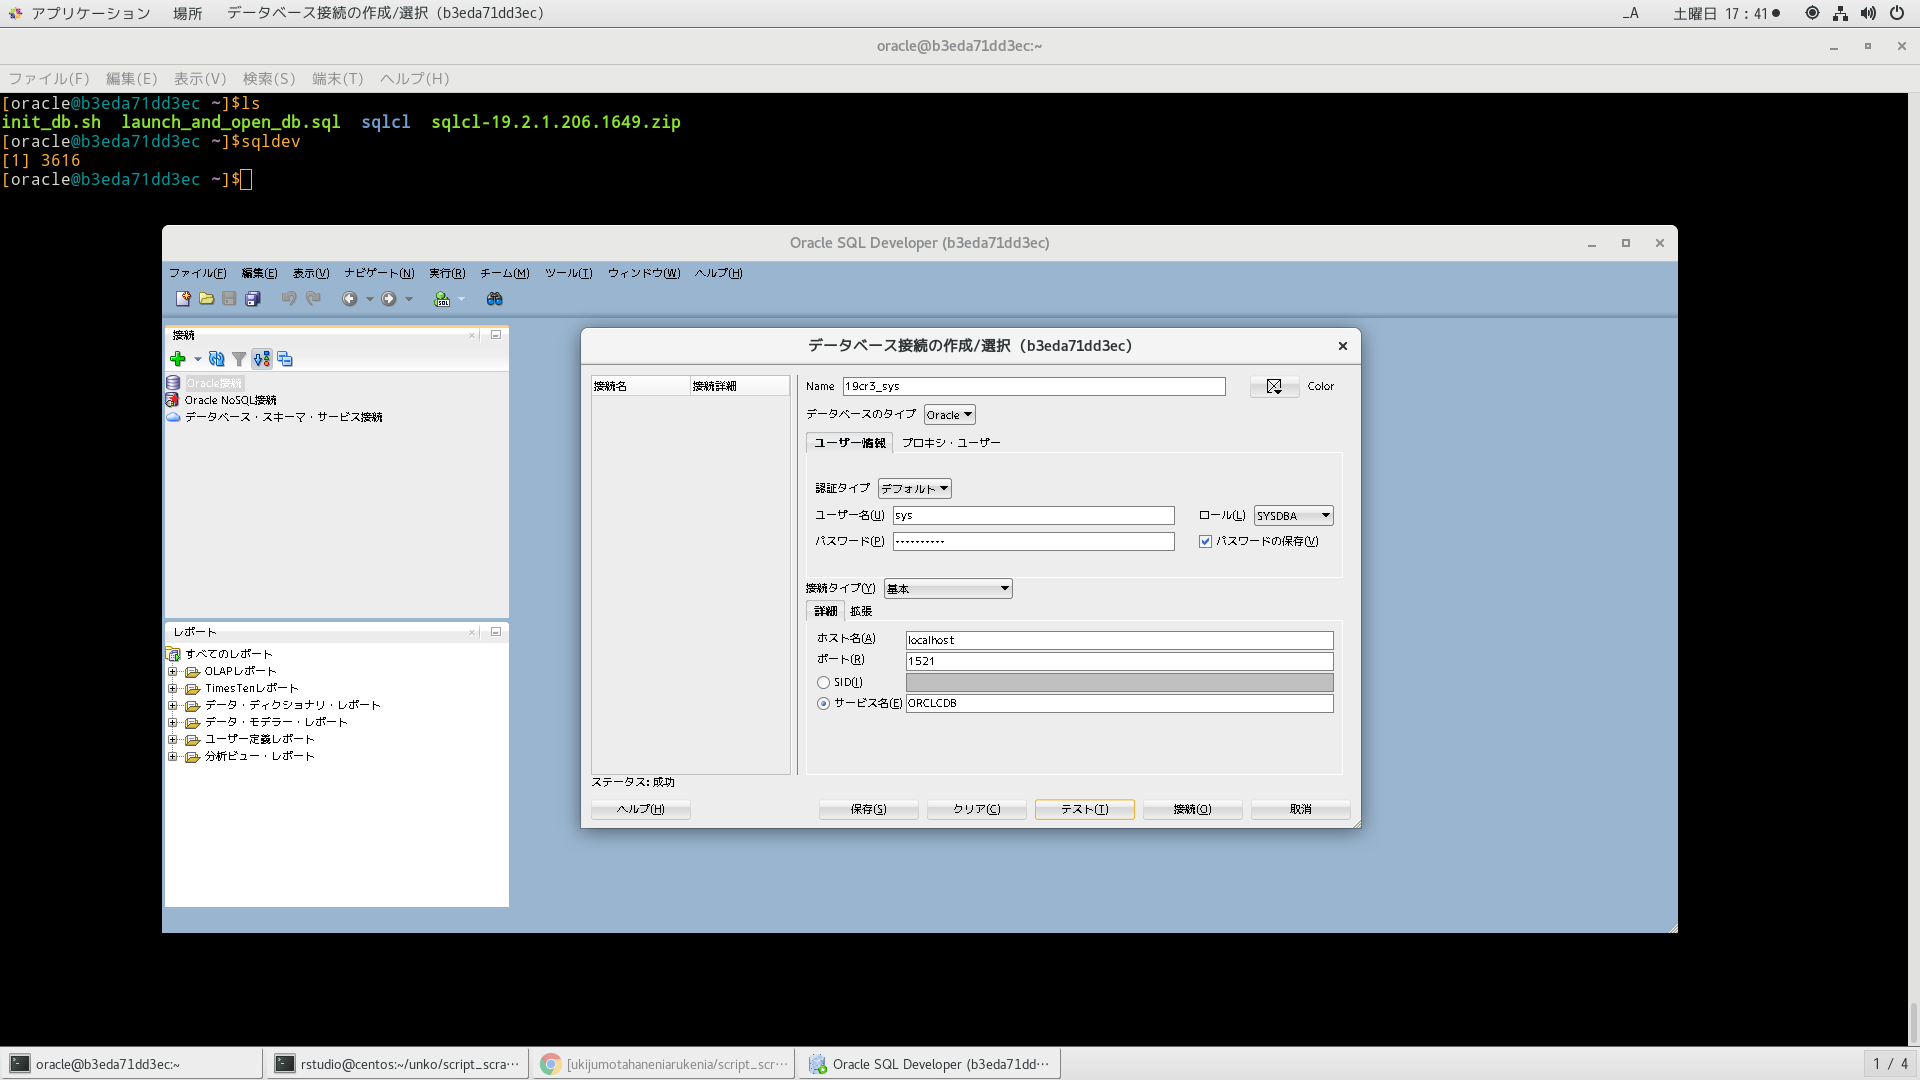
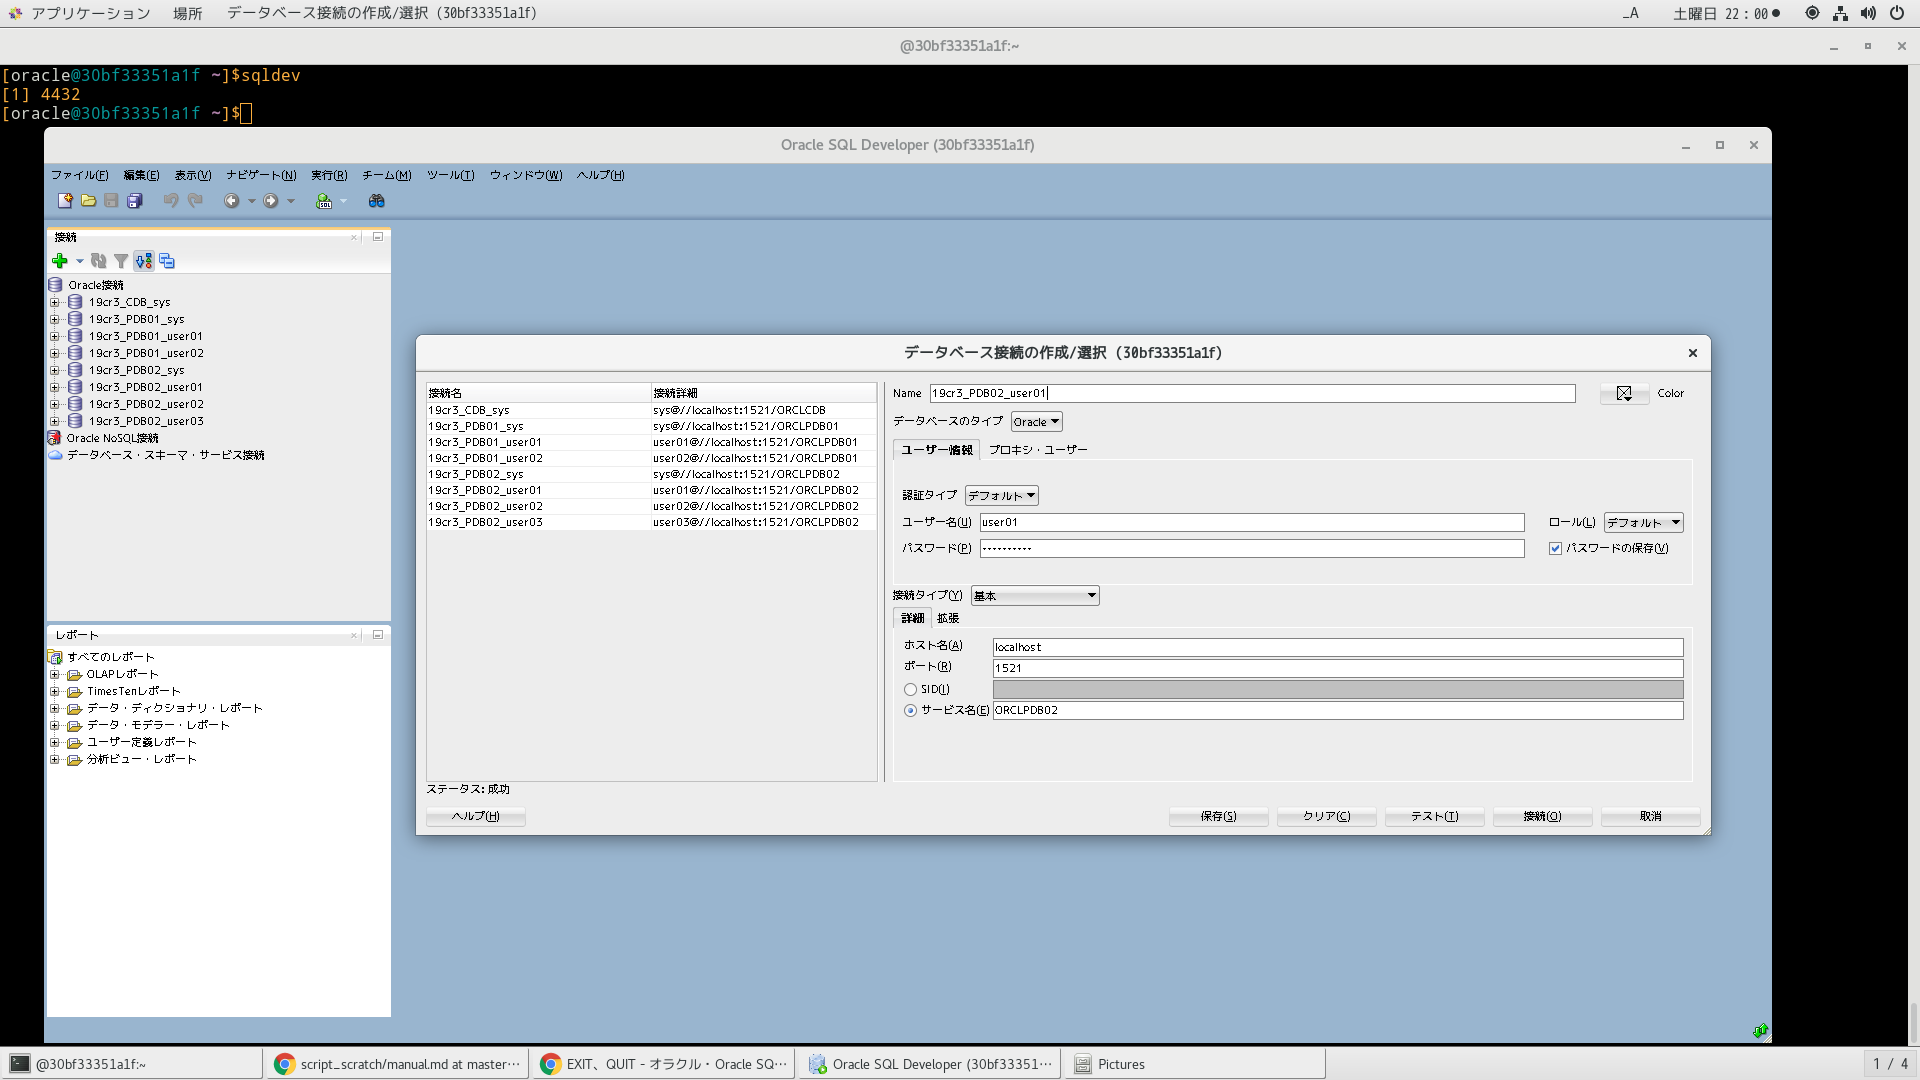
環境構築

diff --git a/oracle/manual.md b/oracle/manual.md
@@ -383,84 +383,303 @@ sys	0m0.008s
 ```
 
 # sqlplusから接続
+これでもいいし
+```
+sqlplus sys/ORACLE_PWD@ORCLCDB as sysdba
+sqlplus sys/ORACLE_PWD@ORCLPDB01 as sysdba
+sqlplus sys/ORACLE_PWD@ORCLPDB02 as sysdba
+sqlplus user01/ORACLE_PWD@ORCLPDB01
+sqlplus user02/ORACLE_PWD@ORCLPDB01
+sqlplus user01/ORACLE_PWD@ORCLPDB02
+sqlplus user02/ORACLE_PWD@ORCLPDB02
+sqlplus user03/ORACLE_PWD@ORCLPDB02
+```
+これでもいい
 ```
 sqlplus sys/ORACLE_PWD@localhost:1521/ORCLCDB as sysdba
 sqlplus sys/ORACLE_PWD@localhost:1521/ORCLPDB01 as sysdba
 sqlplus sys/ORACLE_PWD@localhost:1521/ORCLPDB02 as sysdba
-sqlplus pdb01/oracle_pwd@localhost:1521/ORCLPDB01
-sqlplus pdb02/oracle_pwd@localhost:1521/ORCLPDB02
+sqlplus user01/ORACLE_PWD@localhost:1521/ORCLPDB01
+sqlplus user02/ORACLE_PWD@localhost:1521/ORCLPDB01
+sqlplus user01/ORACLE_PWD@localhost:1521/ORCLPDB02
+sqlplus user02/ORACLE_PWD@localhost:1521/ORCLPDB02
+sqlplus user03/ORACLE_PWD@localhost:1521/ORCLPDB02
 ```
-
-# sqldeveloperから接続
-![](./1.png)
-![](./2.png)
-![](./3.png)
-![](./4.png)
-![](./5.png)
-![](./6.png)
-
-# sqlclでも接続確認
-?クエリパラメータはなぜか標準出力に吐かれない。
-標準入力で与える場合は標準出力に吐かれる。
-SYSユーザーの「as sysdba付与して接続」がアンドキュメント。たぶん。
+実行例
 ```
-[root@be807f28f5bd /]$sql --version
-GNU sql 20190822
-Copyright (C) 2009,2010,2011,2012,2013,2014,2015,2016,2017
-Ole Tange and Free Software Foundation, Inc.
-License GPLv3+: GNU GPL version 3 or later <http://gnu.org/licenses/gpl.html>
-This is free software: you are free to change and redistribute it.
-GNU sql comes with no warranty.
+[oracle@30bf33351a1f ~]$sqlplus sys/ORACLE_PWD@localhost:1521/ORCLCDB as sysdba
 
-Web site: http://www.gnu.org/software/sql
-
-When using GNU sql for a publication please cite:
-
-O. Tange (2011): GNU SQL - A Command Line Tool for Accessing Different
-Databases Using DBURLs, ;login: The USENIX Magazine, April 2011:29-32.
-```
-## SYSユーザー以外でPDB接続
-```
-[oracle@be807f28f5bd ~]$man sql | grep oracle
-        sql:oracle://scott:tiger@ora.example.com/xe
-       Currently supported vendors: MySQL (mysql), MySQL with SSL (mysqls, mysqlssl), Oracle (oracle, ora), PostgreSQL (postgresql, pg, pgsql, postgres), PostgreSQL with SSL
-       sql sql:oracle://scott:tiger@ora.example.com/xe
-[oracle@be807f28f5bd ~]$man sql | grep ?
-       dburl    A DBURL has the following syntax: [sql:]vendor:// [[user][:password]@][host][:port]/[database][?sqlquery]
-       A DBURL has the following syntax: [sql:]vendor:// [[user][:password]@][host][:port]/[database][?sqlquery]
-        sql:sqlite2:////tmp/db.sqlite?SELECT * FROM foo;
-        sqlite3:///../db.sqlite3?SELECT%20*%20FROM%20foo;
-        :query  sqlite:////tmp/db.sqlite?SELECT * FROM foo;
-[oracle@be807f28f5bd ~]$sql sql:oracle://pdb12:oracle_pwd@localhost/ORCLPDB12
-
-SQL*Plus: Release 19.0.0.0.0 - Production on Wed Sep 11 02:20:39 2019
+SQL*Plus: Release 19.0.0.0.0 - Production on 土 9月 14 21:47:03 2019
 Version 19.3.0.0.0
 
 Copyright (c) 1982, 2019, Oracle.  All rights reserved.
 
-??????????: ?  9?   11 2019 02:19:36 +09:00
 
 
 Oracle Database 19c Enterprise Edition Release 19.0.0.0.0 - Production
 Version 19.3.0.0.0
-?????????
-SQL> select banner_full from v$version;
+に接続されました。
+SYS@localhost:1521/ORCLCDB> show con_name
 
-BANNER_FULL
-----------------------------------------------------------------------------------------------------------------------------------------------------------------
+CON_NAME
+------------------------------
+CDB$ROOT
+SYS@localhost:1521/ORCLCDB> show pdbs
+
+       CON_ID CON_NAME                       OPEN MODE  RESTRICTED
+------------- ------------------------------ ---------- ----------
+            2 PDB$SEED                       READ ONLY  NO
+            3 ORCLPDB01                      READ WRITE NO
+            4 ORCLPDB02                      READ WRITE NO
+SYS@localhost:1521/ORCLCDB> Oracle Database 19c Enterprise Edition Release 19.0.0.0.0 - Production
+Version 19.3.0.0.0との接続が切断されました。
+[oracle@30bf33351a1f ~]$sqlplus sys/ORACLE_PWD@localhost:1521/ORCLPDB01 as sysdba
+
+SQL*Plus: Release 19.0.0.0.0 - Production on 土 9月 14 21:47:23 2019
+Version 19.3.0.0.0
+
+Copyright (c) 1982, 2019, Oracle.  All rights reserved.
+
+
+
 Oracle Database 19c Enterprise Edition Release 19.0.0.0.0 - Production
+Version 19.3.0.0.0
+に接続されました。
+SYS@localhost:1521/ORCLPDB01> show con_name
 
-SQL> Oracle Database 19c Enterprise Edition Release 19.0.0.0.0 - Production
-Version 19.3.0.0.0?????????????
-[oracle@be807f28f5bd ~]$sql sql:oracle://pdb01:oracle_pwd@localhost/ORCLPDB01?select banner_full from v$version;
+CON_NAME
+------------------------------
+ORCLPDB01
+SYS@localhost:1521/ORCLPDB01> Oracle Database 19c Enterprise Edition Release 19.0.0.0.0 - Production
+Version 19.3.0.0.0との接続が切断されました。
+[oracle@30bf33351a1f ~]$sqlplus sys/ORACLE_PWD@localhost:1521/ORCLPDB02 as sysdba
 
-[oracle@be807f28f5bd /]$echo "select banner_full from v\$version;" | sql sql:oracle://pdb01:oracle_pwd@localhost/ORCLPDB01
+SQL*Plus: Release 19.0.0.0.0 - Production on 土 9月 14 21:47:44 2019
+Version 19.3.0.0.0
 
-BANNER_FULL
-----------------------------------------------------------------------------------------------------------------------------------------------------------------
+Copyright (c) 1982, 2019, Oracle.  All rights reserved.
+
+
+
 Oracle Database 19c Enterprise Edition Release 19.0.0.0.0 - Production
+Version 19.3.0.0.0
+に接続されました。
+SYS@localhost:1521/ORCLPDB02> show con_name
+
+CON_NAME
+------------------------------
+ORCLPDB02
+SYS@localhost:1521/ORCLPDB02> Oracle Database 19c Enterprise Edition Release 19.0.0.0.0 - Production
+Version 19.3.0.0.0との接続が切断されました。
+[oracle@30bf33351a1f ~]$sqlplus user01/ORACLE_PWD@localhost:1521/ORCLPDB01
+
+SQL*Plus: Release 19.0.0.0.0 - Production on 土 9月 14 21:50:09 2019
+Version 19.3.0.0.0
+
+Copyright (c) 1982, 2019, Oracle.  All rights reserved.
 
 
+
+Oracle Database 19c Enterprise Edition Release 19.0.0.0.0 - Production
+Version 19.3.0.0.0
+に接続されました。
+USER01@localhost:1521/ORCLPDB01> show con_name
+
+CON_NAME
+------------------------------
+ORCLPDB01
+USER01@localhost:1521/ORCLPDB01> Oracle Database 19c Enterprise Edition Release 19.0.0.0.0 - Production
+Version 19.3.0.0.0との接続が切断されました。
+[oracle@30bf33351a1f ~]$sqlplus user02/ORACLE_PWD@localhost:1521/ORCLPDB01
+
+SQL*Plus: Release 19.0.0.0.0 - Production on 土 9月 14 21:50:34 2019
+Version 19.3.0.0.0
+
+Copyright (c) 1982, 2019, Oracle.  All rights reserved.
+
+
+
+Oracle Database 19c Enterprise Edition Release 19.0.0.0.0 - Production
+Version 19.3.0.0.0
+に接続されました。
+USER02@localhost:1521/ORCLPDB01> show con_name
+
+CON_NAME
+------------------------------
+ORCLPDB01
+USER02@localhost:1521/ORCLPDB01> Oracle Database 19c Enterprise Edition Release 19.0.0.0.0 - Production
+Version 19.3.0.0.0との接続が切断されました。
+[oracle@30bf33351a1f ~]$sqlplus user01/ORACLE_PWD@localhost:1521/ORCLPDB02
+
+SQL*Plus: Release 19.0.0.0.0 - Production on 土 9月 14 21:50:45 2019
+Version 19.3.0.0.0
+
+Copyright (c) 1982, 2019, Oracle.  All rights reserved.
+
+
+
+Oracle Database 19c Enterprise Edition Release 19.0.0.0.0 - Production
+Version 19.3.0.0.0
+に接続されました。
+USER01@localhost:1521/ORCLPDB02> show con_name
+
+CON_NAME
+------------------------------
+ORCLPDB02
+USER01@localhost:1521/ORCLPDB02> Oracle Database 19c Enterprise Edition Release 19.0.0.0.0 - Production
+Version 19.3.0.0.0との接続が切断されました。
+[oracle@30bf33351a1f ~]$sqlplus user02/ORACLE_PWD@localhost:1521/ORCLPDB02
+
+SQL*Plus: Release 19.0.0.0.0 - Production on 土 9月 14 21:51:24 2019
+Version 19.3.0.0.0
+
+Copyright (c) 1982, 2019, Oracle.  All rights reserved.
+
+
+
+Oracle Database 19c Enterprise Edition Release 19.0.0.0.0 - Production
+Version 19.3.0.0.0
+に接続されました。
+USER02@localhost:1521/ORCLPDB02> show con_name
+
+CON_NAME
+------------------------------
+ORCLPDB02
+USER02@localhost:1521/ORCLPDB02> Oracle Database 19c Enterprise Edition Release 19.0.0.0.0 - Production
+Version 19.3.0.0.0との接続が切断されました。
+[oracle@30bf33351a1f ~]$sqlplus user03/ORACLE_PWD@localhost:1521/ORCLPDB02
+
+SQL*Plus: Release 19.0.0.0.0 - Production on 土 9月 14 21:51:34 2019
+Version 19.3.0.0.0
+
+Copyright (c) 1982, 2019, Oracle.  All rights reserved.
+
+
+
+Oracle Database 19c Enterprise Edition Release 19.0.0.0.0 - Production
+Version 19.3.0.0.0
+に接続されました。
+USER03@localhost:1521/ORCLPDB02> show con_name
+
+CON_NAME
+------------------------------
+ORCLPDB02
+USER03@localhost:1521/ORCLPDB02> Oracle Database 19c Enterprise Edition Release 19.0.0.0.0 - Production
+Version 19.3.0.0.0との接続が切断されました。
+```
+
+# sqldeveloperから接続
+```
+[oracle@30bf33351a1f ~]$sqldev
+[1] 4432
+```
+![](./1.png)
+![](./2.png)
+
+# sqlclから接続
+SYSユーザーの「as sysdba付与して接続」がアンドキュメント。たぶん。
+```
+[oracle@30bf33351a1f ~]$sql sql:oracle://user01:ORACLE_PWD@localhost:1521/ORCLPDB01
+
+SQL*Plus: Release 19.0.0.0.0 - Production on 土 9月 14 22:02:35 2019
+Version 19.3.0.0.0
+
+Copyright (c) 1982, 2019, Oracle.  All rights reserved.
+
+最終正常ログイン時間: 土 9月  14 2019 21:56:56 +09:00
+
+
+Oracle Database 19c Enterprise Edition Release 19.0.0.0.0 - Production
+Version 19.3.0.0.0
+に接続されました。
+USER01@ORCLPDB01> show con_name
+
+CON_NAME
+------------------------------
+ORCLPDB01
+USER01@ORCLPDB01> Oracle Database 19c Enterprise Edition Release 19.0.0.0.0 - Production
+Version 19.3.0.0.0との接続が切断されました。
+[oracle@30bf33351a1f ~]$sql sql:oracle://user02:ORACLE_PWD@localhost:1521/ORCLPDB01
+
+SQL*Plus: Release 19.0.0.0.0 - Production on 土 9月 14 22:03:08 2019
+Version 19.3.0.0.0
+
+Copyright (c) 1982, 2019, Oracle.  All rights reserved.
+
+最終正常ログイン時間: 土 9月  14 2019 21:57:15 +09:00
+
+
+Oracle Database 19c Enterprise Edition Release 19.0.0.0.0 - Production
+Version 19.3.0.0.0
+に接続されました。
+USER02@ORCLPDB01> show con_name
+
+CON_NAME
+------------------------------
+ORCLPDB01
+USER02@ORCLPDB01> Oracle Database 19c Enterprise Edition Release 19.0.0.0.0 - Production
+Version 19.3.0.0.0との接続が切断されました。
+[oracle@30bf33351a1f ~]$sql sql:oracle://user01:ORACLE_PWD@localhost:1521/ORCLPDB02
+
+SQL*Plus: Release 19.0.0.0.0 - Production on 土 9月 14 22:03:21 2019
+Version 19.3.0.0.0
+
+Copyright (c) 1982, 2019, Oracle.  All rights reserved.
+
+最終正常ログイン時間: 土 9月  14 2019 21:59:42 +09:00
+
+
+Oracle Database 19c Enterprise Edition Release 19.0.0.0.0 - Production
+Version 19.3.0.0.0
+に接続されました。
+USER01@ORCLPDB02> show con_name
+
+CON_NAME
+------------------------------
+ORCLPDB02
+USER01@ORCLPDB02> Oracle Database 19c Enterprise Edition Release 19.0.0.0.0 - Production
+Version 19.3.0.0.0との接続が切断されました。
+[oracle@30bf33351a1f ~]$sql sql:oracle://user02:ORACLE_PWD@localhost:1521/ORCLPDB02
+
+SQL*Plus: Release 19.0.0.0.0 - Production on 土 9月 14 22:03:30 2019
+Version 19.3.0.0.0
+
+Copyright (c) 1982, 2019, Oracle.  All rights reserved.
+
+最終正常ログイン時間: 土 9月  14 2019 21:57:44 +09:00
+
+
+Oracle Database 19c Enterprise Edition Release 19.0.0.0.0 - Production
+Version 19.3.0.0.0
+に接続されました。
+USER02@ORCLPDB02> show con_name
+
+CON_NAME
+------------------------------
+ORCLPDB02
+USER02@ORCLPDB02> Oracle Database 19c Enterprise Edition Release 19.0.0.0.0 - Production
+Version 19.3.0.0.0との接続が切断されました。
+[oracle@30bf33351a1f ~]$sql sql:oracle://user03:ORACLE_PWD@localhost:1521/ORCLPDB02
+
+SQL*Plus: Release 19.0.0.0.0 - Production on 土 9月 14 22:03:38 2019
+Version 19.3.0.0.0
+
+Copyright (c) 1982, 2019, Oracle.  All rights reserved.
+
+最終正常ログイン時間: 土 9月  14 2019 21:57:52 +09:00
+
+
+Oracle Database 19c Enterprise Edition Release 19.0.0.0.0 - Production
+Version 19.3.0.0.0
+に接続されました。
+USER03@ORCLPDB02> show con_name
+
+CON_NAME
+------------------------------
+ORCLPDB02
+USER03@ORCLPDB02> Oracle Database 19c Enterprise Edition Release 19.0.0.0.0 - Production
+Version 19.3.0.0.0との接続が切断されました。
+[oracle@30bf33351a1f ~]$
 ```
 
 # Rライブラリ
